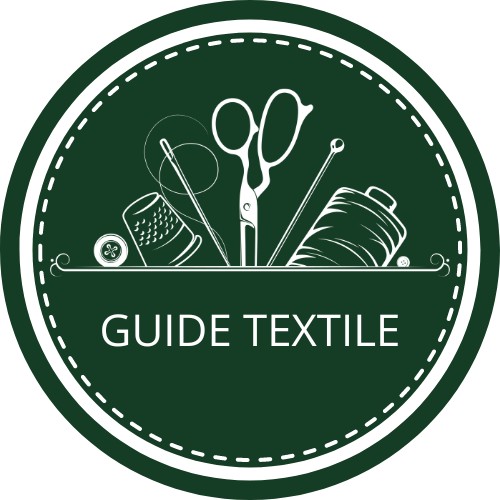
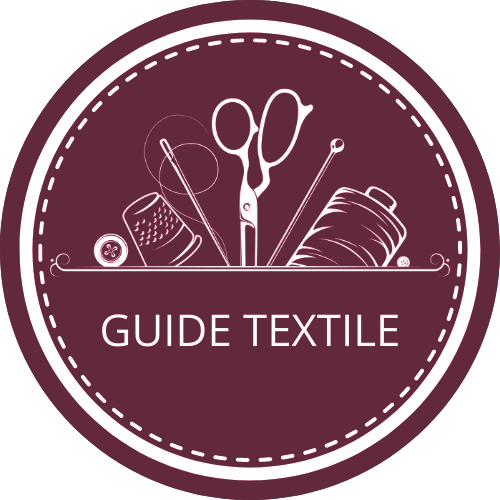
change-style

diff --git a/src/pages/HomeScreen.tsx b/src/pages/HomeScreen.tsx
@@ -20,13 +20,13 @@ export default function HomeScreen() {
       <div className="flex flex-col justify-center items-center min-h-screen mt-16">
         <div className="mb-5 text-center">
           <h1 className="pb-8 text-2xl font-bold">{t('home.welcome')}</h1>
-          <h2 className="text-darkBrown">{t('home.intro')}</h2>
+          <h2>{t('home.intro')}</h2>
         </div>
         <div className="flex flex-col justify-center items-center">
-          <h3 className="text-darkBrown">{t('home.search_by')}</h3>
+          <h3>{t('home.search_by')}</h3>
           <div className="flex flex-row m-2">
             <div
-              className="flex flex-col justify-center items-center border rounded-md p-2 m-2 shadow-lg bg-lightBackground hover:bg-lightBackgroundLightHover dark:bg-darkBackground hover:dark:bg-darkBackgroundLightHover"
+              className="flex flex-col justify-center items-center border rounded-md p-2 m-2 shadow-lg bg-lightBackground hover:bg-lightBackgroundLightHover dark:bg-darkPruneLogo hover:dark:bg-darkPruneBG"
               onClick={() => {
                 navigate('/products');
               }}
@@ -39,7 +39,7 @@ export default function HomeScreen() {
               />
             </div>
             <div
-              className="flex flex-col justify-center items-center border rounded-md p-2 m-2 shadow-lg bg-lightBackground hover:bg-lightBackgroundLightHover dark:bg-darkBackground hover:dark:bg-darkBackgroundLightHover"
+              className="flex flex-col justify-center items-center border rounded-md p-2 m-2 shadow-lg bg-lightBackground hover:bg-lightBackgroundLightHover dark:bg-darkPruneLogo hover:dark:bg-darkPruneBG"
               onClick={() => {
                 navigate('/fabrics');
               }}

diff --git a/tailwind.config.js b/tailwind.config.js
@@ -25,6 +25,7 @@ module.exports = {
         // DarkMode
         darkPruneBG: '#703448',
         darkPruneLBG: '#4a1b2a',
+        darkPruneLogo: '#61293a',
         // darkBackground: '#5c4e4f',
         darkBackground: '#153C24',
         // darkBackgroundLight: '#9a7b7b',
